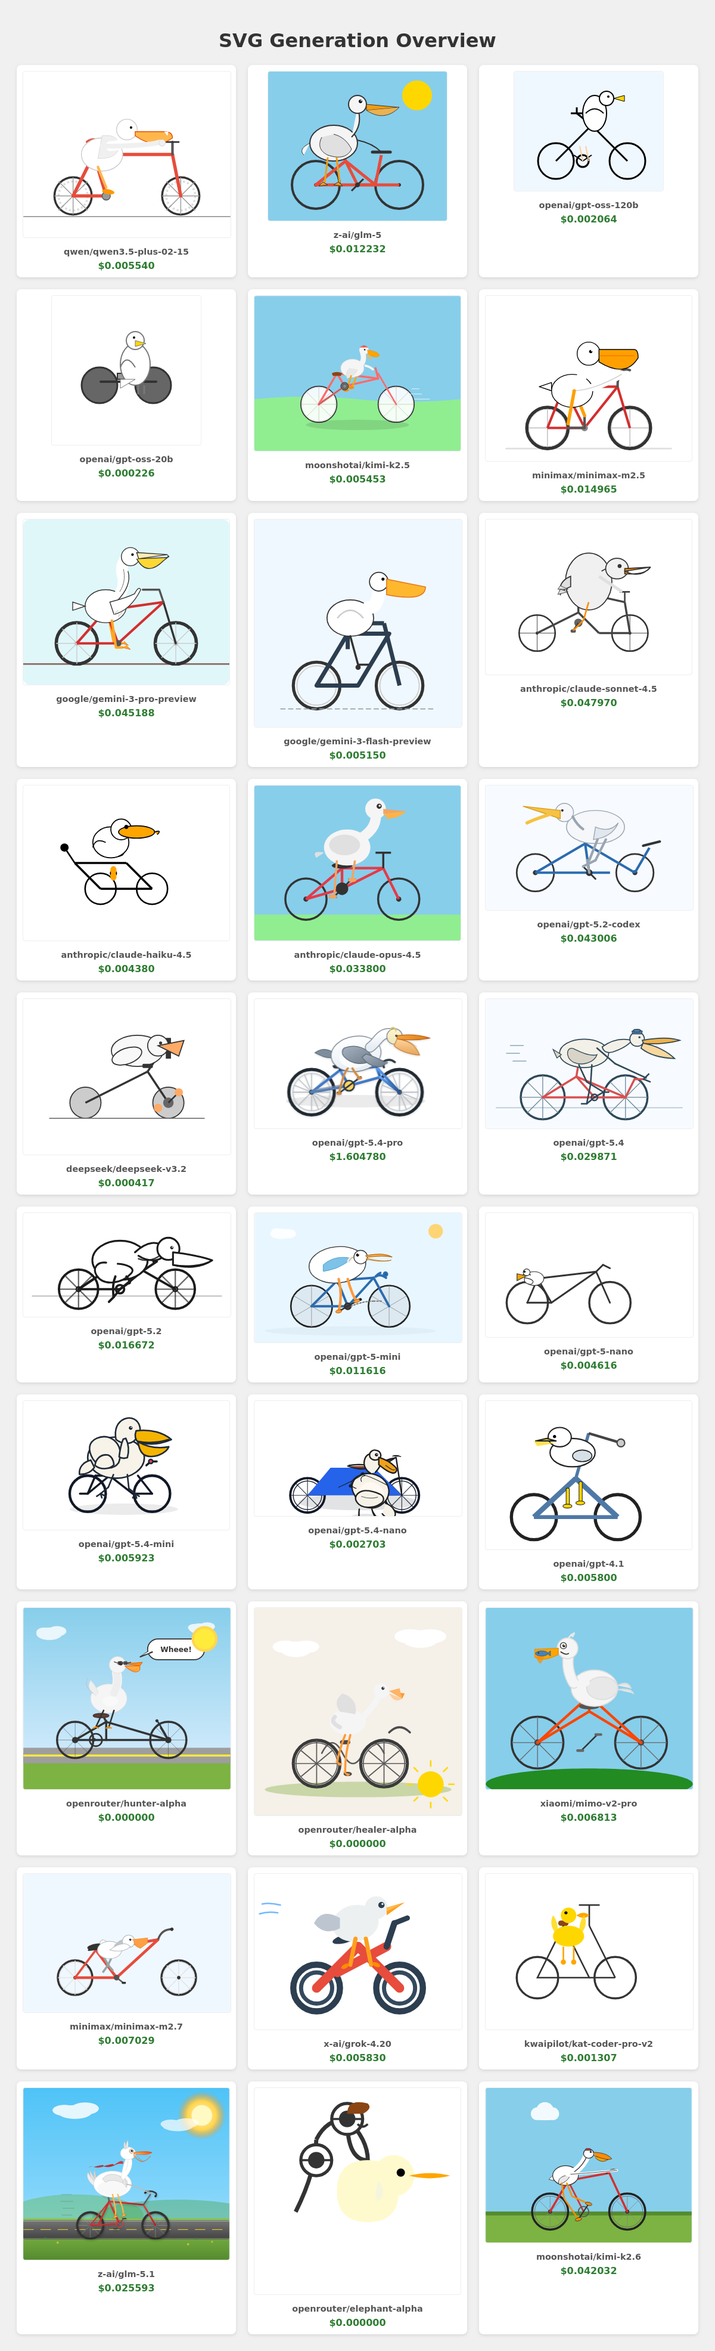
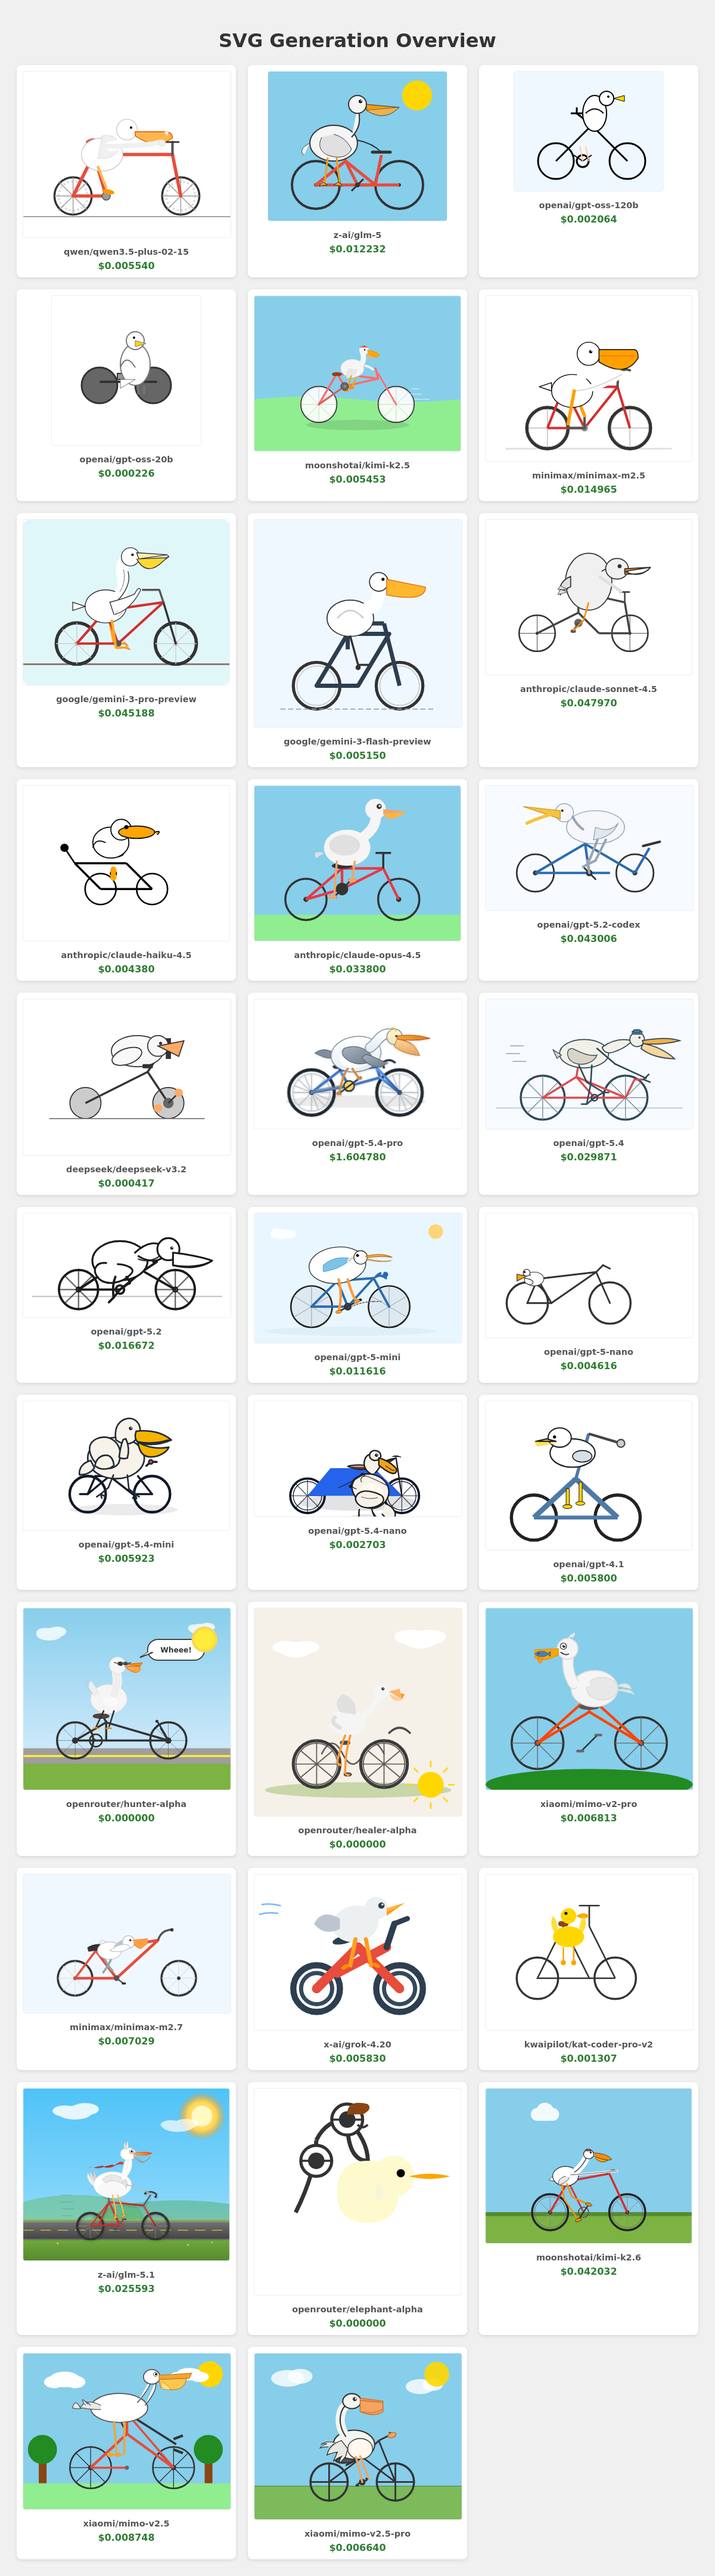
mimo v2.5

diff --git a/svg_outputs/overview.html b/svg_outputs/overview.html
@@ -197,6 +197,18 @@
                     <div class="cost ">$0.042032</div>
                 </div>
                 
+                <div class="card">
+                    <img src="xiaomi_mimo-v2-5.svg" alt="xiaomi/mimo-v2.5">
+                    <div class="model-name">xiaomi/mimo-v2.5</div>
+                    <div class="cost ">$0.008748</div>
+                </div>
+                
+                <div class="card">
+                    <img src="xiaomi_mimo-v2-5-pro.svg" alt="xiaomi/mimo-v2.5-pro">
+                    <div class="model-name">xiaomi/mimo-v2.5-pro</div>
+                    <div class="cost ">$0.006640</div>
+                </div>
+                
         </div>
     </body>
     </html>

diff --git a/pelicanTest.js b/pelicanTest.js
@@ -45,6 +45,8 @@ const MODELS = [
     'z-ai/glm-5.1',
     'openrouter/elephant-alpha',
     'moonshotai/kimi-k2.6',
+    'xiaomi/mimo-v2.5',
+    'xiaomi/mimo-v2.5-pro',
 ];
 
 // Ensure output directory exists
